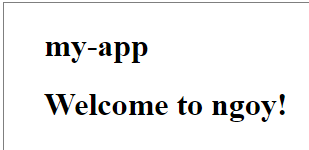
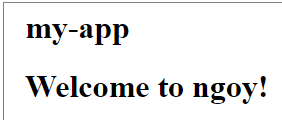
resize images to fit on mobile devices

Changed region(s): [[0.0851, 0.625, 0.9645, 0.875], [0.0851, 0.2, 0.4823, 0.425], [0.0, 0.0, 1.0, 1.0]]

diff --git a/docs/styles/main.css b/docs/styles/main.css
@@ -79,7 +79,7 @@ h3 {
 
 .logo-spacer {
 	display: block;
-	height: 3rem;
+	height: 1rem;
 }
 
 .logo {
@@ -215,7 +215,7 @@ home .ngoy-enjoy {
 
 home .ngoy-enjoy2 {
 	font-size: 2rem;
-	margin-top: -5rem;
+	margin-top: -7rem;
 }
 get-started {
 	display: block;

diff --git a/src/main/java/ngoyweb/app/home/home.component.css b/src/main/java/ngoyweb/app/home/home.component.css
@@ -27,5 +27,5 @@ home .ngoy-enjoy {
 
 home .ngoy-enjoy2 {
 	font-size: 2rem;
-	margin-top: -5rem;
+	margin-top: -7rem;
 }

diff --git a/src/main/java/ngoyweb/app/app.component.css b/src/main/java/ngoyweb/app/app.component.css
@@ -79,7 +79,7 @@ h3 {
 
 .logo-spacer {
 	display: block;
-	height: 3rem;
+	height: 1rem;
 }
 
 .logo {
